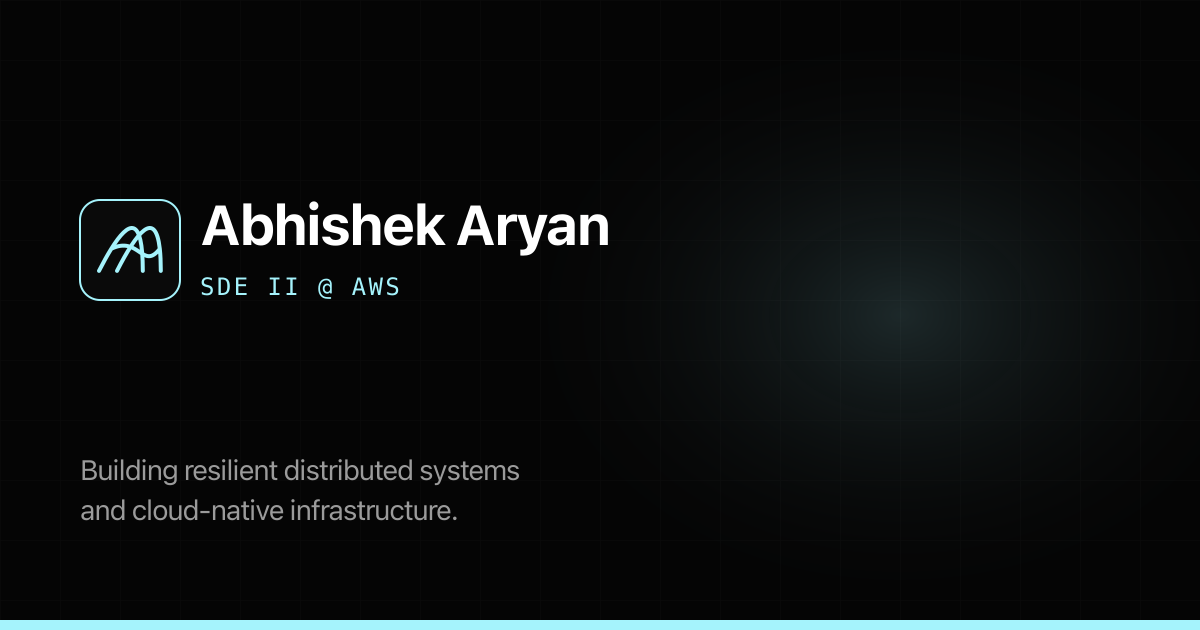
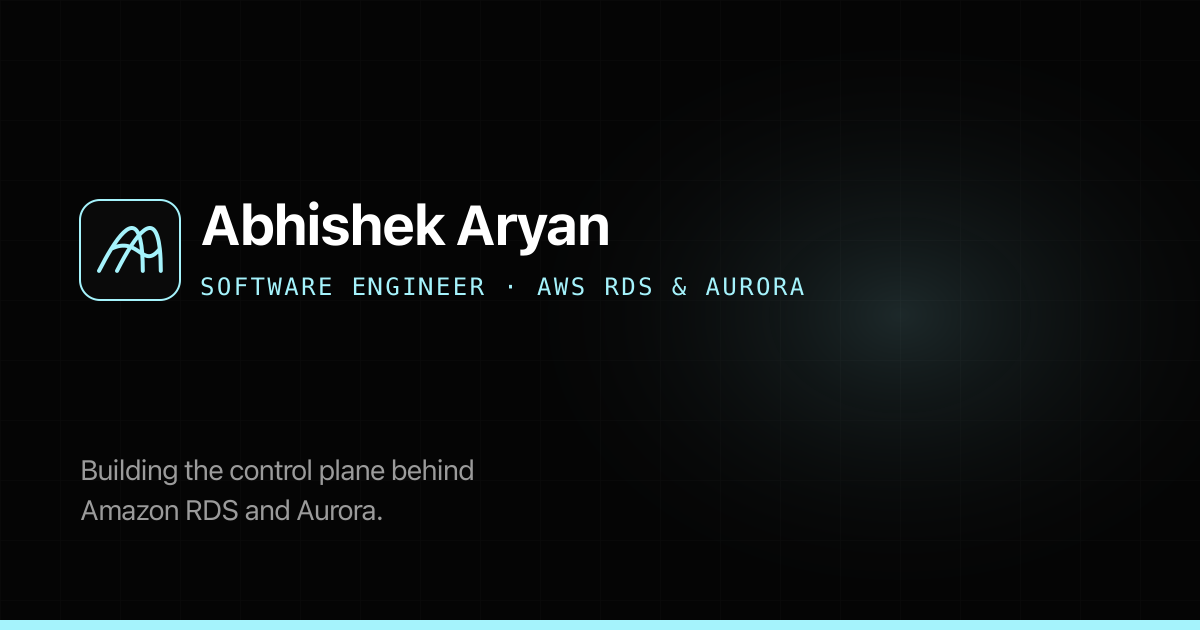
copy: lead with identity in hero, SEO and OG image
Adds a real (visually hidden) h1 since the name only exists as WebGL text, rewrites the tagline cycle so the first line says who/where and every line is true on its own, and names AWS RDS & Aurora in the title, description and OG card.

Changed region(s): [[0.0617, 0.7238, 0.4317, 0.8444], [0.185, 0.4222, 0.4008, 0.4825], [0.4317, 0.4222, 0.6783, 0.4825]]

diff --git a/src/components/visuals/config.ts b/src/components/visuals/config.ts
@@ -82,14 +82,13 @@ export const ALL_TECH_ICONS = [
 // Number of icons to display (randomly selected on each page load)
 export const ICON_COUNT = 6;
 
+// First line carries identity: most visitors only see one or two before scrolling.
 export const TAGLINES = [
-  "ARCHITECTING RESILIENT DISTRIBUTED SYSTEMS",
-  "DISTRIBUTED SYSTEMS AT CLOUD SCALE",
-  "CLOUD SCALE DATABASE INTERNALS",
-  "DATABASE INTERNALS & HIGH AVAILABILITY",
-  "HIGH AVAILABILITY AT THE EDGE",
-  "COMPUTING THROUGH OPEN SOURCE",
-  "OPEN SOURCE DISTRIBUTED SYSTEMS",
+  "SOFTWARE ENGINEER · AWS RDS & AURORA",
+  "THE CONTROL PLANE BEHIND YOUR DATABASE",
+  "UPGRADES IN UNDER A MINUTE",
+  "SIMPLE SYSTEMS THAT STAY UP",
+  "OPEN SOURCE ON THE SIDE",
 ];
 
 export const HERO_TAGLINE_Y_OFFSET = -2.6;

diff --git a/src/content/seo.ts b/src/content/seo.ts
@@ -7,9 +7,9 @@ export type SiteMeta = {
 };
 
 export const siteMeta: SiteMeta = {
-  title: "Abhishek Aryan | SDE II at AWS",
+  title: "Abhishek Aryan | Software Engineer, AWS RDS & Aurora",
   description:
-    "Software Development Engineer specialized in building resilient distributed systems and cloud-native infrastructure.",
+    "Abhishek Aryan is a software engineer on the AWS RDS & Aurora control plane, working on Blue/Green Deployments, high availability and database tooling.",
   url: "https://lunchb0ne.me",
   image: "/og-image.png",
   themeColor: "#050505",

diff --git a/src/components/sections/Hero.tsx b/src/components/sections/Hero.tsx
@@ -4,6 +4,8 @@ import { ScrollIndicator } from "@/components/visuals/ScrollIndicator";
 export const Hero = () => {
   return (
     <div className="relative min-h-dvh w-full overflow-hidden bg-surface">
+      {/* The visible name is WebGL text, so give crawlers and screen readers a real heading */}
+      <h1 className="sr-only">Abhishek Aryan, software engineer on the AWS RDS &amp; Aurora control plane</h1>
       {/* Combined Scene */}
       <ClientHomeScene />
       {/* Scroll Indicator */}
